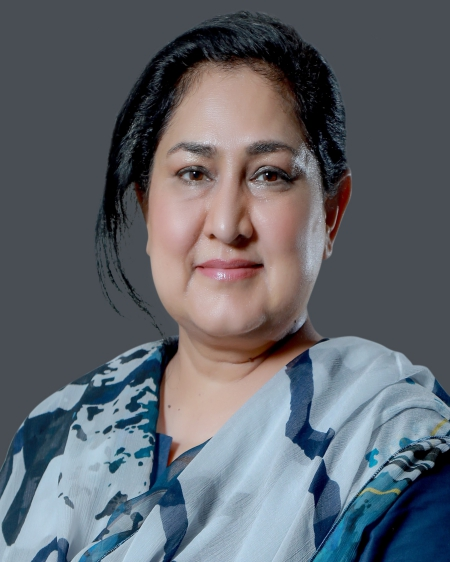
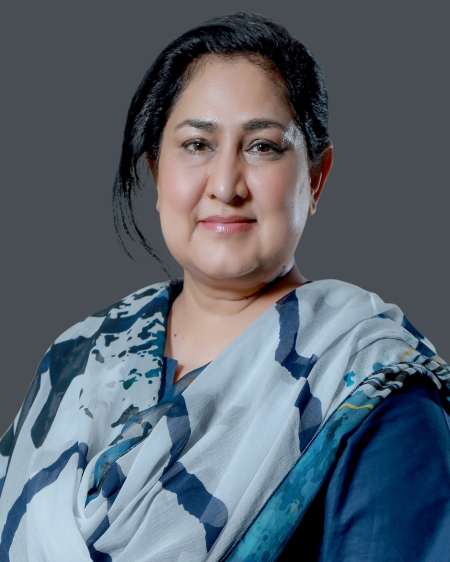
Add content of dr faryal & image replace
after content added page will be renamed

diff --git a/faculty-profile/Dr-Jawaid-Abdul-Ghani.php b/faculty-profile/Dr-Jawaid-Abdul-Ghani.php
@@ -98,10 +98,10 @@ include('../partials/head.php');
 
                     <div class="faculty_grid_head">
 
-                        <h1>Dr. Jawaid Ghani</h1>
-                        <h4>Professor<br>Strategy & Marketing Research</h4>
+                        <h1>Dr. Faryal Razzaq</h1>
+                        <h4>Assistant Professor<br>Management Sciences</h4>
 
-                        <a href="mail:to">jawaid.ghani@ksbl.edu.pk</a>
+                        <a href="mail:to">Faryal.razzaq@ksbl.edu.pk</a>
 
                     </div>
 
@@ -132,234 +132,144 @@ include('../partials/head.php');
 
                         <div id="vita" class=" tab-pane active">
 
-                            <p><span style="color: #ff9f19;">Dr Jawaid Ghani </span>
-                                holds degrees in Computer Science and Management from MIT and Wharton School (U. Penn). He was a Professor at LUMS (1992-2012) where he taught in the areas of Strategy and Marketing, served as Dean of the Suleman Dawood School of Business, and held the Export Development Fund Chair in Export Marketing. Prior to joining LUMS, Dr Ghani held faculty positions at the Sloan School of Management, MIT, King Fahd University of Petroleum and Minerals, and Western Michigan University.
+                            <p><span style="color: #ff9f19;">Dr. Faryal Razzaq </span>
+                             is an seminal academician, master trainer, research consultant, blogger for national newspapers, influencer, panelist for National TV, philanthropist, Emotional Intelligence and ethics’ education evangelist, instructional designer & member advisory boards for few institutions including Bahria University Business School curriculum advisory committee for BBA/MBA & established ZAB-Curriculum advisory & Regulation of Emotion Centre (SZABIST). She is a mentor for National Incubation Centre, CaterpillerHer (Miller Center for social entrepreneurship at Santa Clara university, CA., USA), CGI (NUML University), BIC (Bahria University), SEED and Khudi-A women empowerment project and board member for Accountability Lab. She is also in pool for ‘Cartier Women Initiative’ as Subject Matter Expert. She was the only female given fellowship by Founder Institute (Silicon Valley, CA., USA) Islamabad chapter cohort 4. She is among 20 researchers from Islamabad and KPK chapter, selected as member of Community Resilience Research Network by SDPI funded by Creative Learning, USA and awarded 02 research grants. She had been chosen as a symbol of women empowerment in national newspaper Daily Times as well as international Inspire Zone Magazine.
                             </p>
-                            <p>He was a founding Director of Gallup Research Institute (Pakistan). He served as the founding Chairman of the Punjab Information Technology Board (PITB) and as Provincial Secretary Information Technology Department in Punjab.</p>
-                            <p>He has served as a Board member of several organizations including Haleeb Foods Ltd., International Islamic University, Foundation University, Punjab Technical Education and Vocational Training Authority (TEVTA), and Technical Up-Gradation and Skill Development Company (TUSDEC), and as a member of numerous federal and provincial task forces.</p>
-                            <p>He has published extensively in several areas including the psychology of human-computer interaction, economic tariff policy, and retail. His current research interests lie in the area of marketing research and corporate strategy.</p>
+                            <p>She is a scout/influencer for Amazon Web Services (AWS), approved silver tier trainer for Google signature #IamRemarkable workshops. She is featured on The World Bank official media page for her commitment for #GirlLearnWomenEarn and #StratupFridays initiates of The World Bank action plans. She had been independent consultant for British Council, US Embassy Islamabad, CWS (Act alliance Asia Chapter). She has trained PAF officers through Professional Development Centre (Air University), and lead trainer for LDC Bahria University, HRDN, DOVE Foundation, Lincolns Corner, SAARC Women Entrepreneurs Portal Islamabad Chapter. </p>
+                            <p>She developed the first indigenous model, scale, and theory for emotional intelligence at Pakistani workplace for her PhD thesis and developed a model for effective change management for MS thesis . She has many research publications in HEC recognized journals/ national/international conferences. Her research areas are emotional intelligence, learning style, status of women in HEIs, effective change management currently she is working on developing empathy and emotional resilience, anti- bullying and sexual exploitation awareness in primary school children, anti-terrorism, countering violent extremism, ethics, and management style of Abdul Sattar Edhi. Dr Faryal has 05 copy rights from IPO, Pakistan on her models and scales. She has supervised 22 MS level students and 24 BBA and MBA students and served Quaid-i-Azam University and SZABIST prior to joining KSBL.</p>
+                            <p>She is a member for 4 divisions of Academy of Management (AOM), OB, HRM, Entrepreneurship and research methods. She has been awarded HEC grants twice to present her research abroad in USA in Pre- AOM Emotions at workplace conference (EMONET 11) and Malaysia where she conducted pre-conference trainings as well. Her training expertise include, scale development, mental health, life skills, emotional intelligence, emotional agility, self- awareness, anger management, stress management, changing mindset, ethics, proposal writing, research, women empowerment, Logic and critical thinking, effective change management, agile HR, business model canvas, etc. She has trained faculty and students in leading Pakistani universities including Punjab University, Peshawar University, Greenwich University Karachi, IQRA University, Bahria University, SZABIST, Fatima Jinnah Women University and foreign universities like Asia Metropolitan University, Malaysia etc. She is on board of reviewers for 8 research journals & Congress on Academy of Management.</p>
+                            <p>She had been session chair and keynote speaker in many international/national conferences and delivered 100’s of talks across many social media platforms. She is an executive member for British- Pakistan business forum and Islamabad women chamber. She is a role model for Pakistan Alliance for Girls Education, general body member for Pakistan Alliance for Early childhood care, advisor READ Pakistan, trainer/member Women on Board, Connected Women, Pakistan Youth Association, LIFT Pakistan, Professional Success Summit, Jumpstart and Rupani foundation etc.<p>
+                            <p>She is the founder of The FEEEL ® (Framework of Emotions, Ethics, Empowerment and Life skills) Pakistan’s first digital company working on emotional preventive care through self-help coping strategies. She is the patron-in-chief of Pakistan’s first research based digital magazine on emotional health, ‘The FEEEL Magazine’ and creator and owner of first video literacy syllabus to develop emotional resilience for primary kids, ‘The FEEEL Toons’. As a startup founder she won Women SDG Challenge Cup at Hackathon 2019 and was semi-finalist for TiE startup cup 2021. She was among 40 startup founders selected by Facebook Startup Circles training from across Pakistan in 2020.</p>
                         </div>
 
                         <div id="credentials" class=" tab-pane fade"><br>
                             <h4 class="text-primary">Education</h4>
 
                             <p>
-                                Ph.D. - Department of Decision Sciences, <b>The Wharton School, University of Pennsylvania.</b><br>
-                                Major: Management Information Systems; Minor: Managerial Accounting<br>
-                                Dissertation Title: The Effects of Information Representation and Modification on Decision Performance. [Doctoral Research on Database Systems as Mellon Fellow at Carnegie-Mellon University (1975-76)]<br>
-                                <b>1981</b>
-
+                            <b>PhD, Management Sciences (HR), Bahria University Islamabad, Pakistan</b><br>
+                            Developing and validating a Scale for Emotional Intelligence at Pakistani Workplace: A    Case of Hyper Markets of Pakistan.
                             </p>
                             <p>
-                                <b>B.S - Electrical Engineering and Computer Science, Massachusetts Institute of Technology.</b> Thesis Title: Data Base and Simulation Model for Energy Demand Analyses.<br>
-                                <b>1975</b>
+                            <b>MS, Management Sciences (HR), COMSATS University.</b><br>
+                            Effective Change Management: A Case of Canteen Stores Department
                             </p>
-                            <p><b>B.S. - Management Science, Massachusetts Institute of Technology.</b><br>
-                                <b>1975</b>
-                                </p>
+                          
 
-                            <h4 class="text-primary">Awards & Achievements:</h4>
+                            <h4 class="text-primary">Awards</h4>
                             <p>
-                                <ul>
-                                    <li>Awarded Export Development Fund (EDF) Chair in Export Marketing at the Lahore University of Management Sciences, 1994.</li>
-                                    <li>Voted as 1990-91 and 1991-92 Teacher of the Year in the Department of Business Information Systems, Western Michigan University.</li>
-                                    <li>Listed in Who's Who in American Education, 1992-93.</li>
-                                    <li>College of Business Dean's Research Grant, Western Michigan University (1988, 1990, 1991).</li>
-                                    <li>Granted Tenure at Western Michigan University (1991).</li>
-                                    <li>Teaching Fellowship, University of Pennsylvania (1976-80).</li>
-                                    <li>Mellon Fellowship, Carnegie-Mellon University (1975-76).</li>
-                                    <li>Undergraduate Scholarship, Massachusetts Institute of Technology (1972-75).</li>
-                                    <li>SIGMA XI, (Honorary) Scientific Research Society of North America, 1975.</li>
-                                    <li>Cree Medal for Science (awarded to the best overall science student) Karachi Grammar School, 1970</li>
-
-                                </ul>
+                                <ol>
+                                    <li>Won 2nd runner up SDG Women Challenge Cup Pakistan by NIC, JAZZ, Huawei, Code for Pakistan, and Open Pakistan. </li>
+                                    <li>Selected as one of 20 members across Pakistan for Community Resilience Research Network member for SDPI, International Peace and Security Institute, USA and Creative Learning, USA and awarded two grants worth 1.25 Million PKR</li>
+                                    <li>Semi Finalist (amongst 200 startups across Pakistan) for TiE startup cup funded by US Embassy Islamabad.</li>
+                                    <li>Awarded 5 Copy rights, with IPO, Pakistan. </li>
+                                    <li>Awarded Female Fellowship by Founder Institute, California, and USA for Cohort 4 </li>
+                                    <li>Won Merit Scholarship for MS from CIIT, ChakShehzad Campus Islamabad. </li>
+                                    <li>Awarded travel grants twice by HEC Pakistan to present research in Malaysia (2017) and USA (2018). </li>
+                                </ol>   
                             </p>
 
                         </div>
 
                         <div id="interests" class=" tab-pane fade"><br>
 
-                            <p><b>Academic Experience</b></p>
-                            <p>Professor of Strategy and Marketing Research<br>
-                                2013- present
-                                </p>
+                            <p><b>Professional Experience</b></p>
+                            <p>
+                                <ul>
+                                    <li>Assistant Professor, Quaid-i-Azam University, 11 September 2020- 06 July 2021</li>
+                                    <li>Assistant Professor, Shaheed Zulfiqar Ali Bhutto Institute of Science & Technology (SZABIST- Islamabad) from 09 February 2015 – 10 September 2020 </li>
+                                    <li>Visiting Faculty, IQRA University Islamabad. Spring 2017: Research Methods and Skills ( BBA, Fashion &Textile), Compensation management( MS management Sciences). Summer 2017: Compensation Management (MS management Sciences). Fall 2017: Performance Management ( MBA); Human Resource Staffing ( MS Management Sciences)  </li>
+                                    <li>Visiting Faculty, SZABIST, Islamabad. Spring Semester 2014: Business Research Methods (MBA 3 _72 Credit Hours), Principles of Management (MBA 1_ 72 credit hours & 90 credit hours). Summer Semester 2014: Research Methodology (MS_ Development studies & Social Studies). Fall Semester 2014 : Advanced Research Methods ( MS_SS &DS), MBA(36 CRH) </li>
+                                    <li>Principal PAF PlayLand Montessori, Sargodha. (Grade 17). October 2001- September 2002 </li>
+                                </ul>
 
-                                <p>
-                                    Professor of Strategy and Marketing, Suleman Dawood School of Business (SDSB), LUMS. Dean of SDSB, LUMS (2005-07); Visiting Professor (2004-05); Professor (1993-2004); EDF Professor of Export Marketing (1995-98), Associate Dean External Programs (1994-99), Associate Professor (1992-93). On leave as Chairman PITB (1999-2000, 2011-2012).<br>
-                                    As Dean was responsible for SDSB which consists of over 2 dozen full time faculty and a budget in excess of $2 million.
-                                </p>
-                                <p>
-                                    Associate Professor, Department of Business Information Systems, Western Michigan University. Assistant - Professor (1988-90)<br>
-                                    1988-1992
-                                </p>
-                                <p>
-                                    Assistant Professor, College of Industrial Management, King Fahd University of Petroleum and Minerals (KFUPM), Dhahran, Saudi Arabia
-                                    <br>1984-1988
+                            </p>
+                            <p><b>Consulting Experience</b></p>
+                            <p>
+                                <ol>
+                                    <li>Consultant for KSBL undergrad program launch and digitization initiative from September 2020 - June 2021.</li>
+                                    <li>Consultant trainer for HRDN for their youth enrichment program at on 27August, 2019 at Lincolns Corner.</li>
+                                    <li>Conducted 4 days training for faculty and MS/PHD scholars in Peshawar University as an independent consultant for Community World Service a consortium of 70 countries under ACT alliance form 20-23 Dec 2017.</li>
+                                    <li>Conducted three days training for Research and SPSS as the main trainer in Punjab University from 23rd March 2017-25th March 2017 for CWS as private Independent Consultant for Community World Services a consortium for 70 countries (ACT Alliance) to conduct research workshops.  </li> 
+                                    <li>Conducted the baseline study British Council for HEC sponsored research study on Women in Higher Education as Private Consultant in January 2016.  </li>
+                                    <li>Won 2 grants from SDPI and creative learning USA 2020 and 2021, for PKR 1.25 million for video literacy training for emotional resilience of primary school kids and anti-terrorism narrative in HEIs.</li>
+                                </ol>
+                            </p>
+                            <p><b>Training</b></p>
+                            <p>
+                                <ol>
+                                    <li>Facebook Live 19 sessions conducted for emotional health and Corona for Greenwich University, Change Mechanics, Wecon, Fempreneur, SDG- Academy, SZABIST- Islamabad, The FEEEL, Seerab Maps, volunteers 2 Serve humanity etc from April,2020- May, 2020 </li>
+                                    <li>Mentored startups in Bahria Innovation Centre for UNDP-FERP om 12 March, 2020 </li>
+                                    <li>Conducted a training for Emotional Resilience for Startups at NUML University, Centre for Global Innovation on 27 Feb, 2020. </li>
+                                    <li>Conducted a training for COMSATS University, Islamabad, Arts and Design department for Emotional Agility on 26th Feb, 2020. </li>
+                                    <li>Conducted an advanced level workshop on, “Stress Management and building resilience” for PAF Officers from13-15th January,2020 for CPD- Air University </li>
+                                    <li>Conducted Training for PAF CWO’s and PDC, Air University for Time and </li>
+                                    <li>Stress Management from 9-11th Dec 2019. </li>
+                                    <li>Conducted Training for SAARC women portal for Islamabad women chamber Mentored young Women Entrepreneurs for Khudi-Women Empowerment Boot </li>
+                                    <li>Camp, by US State Department, US Mission Islamabad, PEP Foundation and 7 Universities on 9th Dec 2019 </li>
+                                    <li>Conducted trainings for PAF Officers 25-27th Nov 2019 for critical thinking. </li>
+                                    <li>Conducted motivation session Pakistan Alliance for Girls Education, for AIM high initiative on 18th  Sept.2019</li>
+                                    <li>Conducted training on 5th  Sept for LIFT Pakistan and JUMP Start for Emotional Agility in the era of disruption.  </li>
+                                    <li>Conducted training for Unites States of America, Embassy Islamabad, on Mental & Emotional Agility for their Youth Enrichment Program on 27 August, 2019 </li>
+                                    <li>Conduct training for Google signature #IamRemarkable workshop for Lincolns Corners on 4th September, 2019 (American Centre, Public Affairs Sections, and U.S. Embassy Islamabad). </li>
+                                    <li>Expert Panelist in “HR and People Management: The Agile way in the Digital Era”, organized by #Tech4Good, Maven Logix, Teamup, Colaraz and National Incubation Center on 2nd  August 2019.</li>
+                                    <li>Conducted a training on Mindset for Connected Women Islamabad Chapter on 21st  June 2019, at Marriott’s Islamabad. </li>
+                                    <li>Conducted faculty development training in SZABIST- Islamabad on Role of Academia in fostering ethical Behaviors, on 16th  July 2019.</li>
+                                    <li>Lead trainer for startups in Accountability Lab on 19th  April, 2019</li>
+                                    <li>Conducted a full day work shop on Emotional Intelligence at Bilguis Post Graduate College for Psychology department for around 300 participants at PAF base Nur khan on 4th April, 2019.</li>
+                                    <li>Conducted a talk on Women’s Day Special as symbol of women empowerment, at Wecreate, and powered by ,’Be the change” on 10th  March 2018</li>
+                                    <li>Conducted a discussion of upside of failure at National Incubation Centre, powered by Dasstan Publisher, Accountability lab and Team up on 20 March 2018. </li>
+                                    <li>Conducted training on Emotional Intelligence, arranged by Learning Curves, Pakistan Youth Association & NISTE Islamabad on 9th  February 2019. </li>
+                                    <li>Conducted Training on Scale Development and Validation in Institute of Professional Psychology, Bahria University Karachi on 27th  April 2018. </li>
+                                    <li>Conducted pre conference Training in Greenwich University, Karachi on 27April 2018 on Scale Development. </li>
+                                    <li>Resource person for conducting quantitative techniques of data analysis in IBIT, Punjab University, 16 Feb 2018. </li>
+                                    <li>Conducted pre conference training in Asian Multi-disciplinary conference, in Asian metropolitan university, Cyberjaya, Malaysia on 29th Dec 2017. </li>
+                                    <li>Conducted Faculty and Student training as the main training for Leadership Development Centre (LDC), Bahria University on 24th August 2017 for Scale development. </li>
+                                    <li>Conducted two weeks Proposal Writing Workshops for Faculty and Thesis students in IQRA University, Islamabad Campus, in Dec. 2016. </li>
+                                    <li>Conducted Trainings in SZABIST-Islamabad for APA style of Formatting and research writing on 21st  May & 27th  May 2015. </li>
 
-                                </p>
-
-                                <p>
-                                    Assistant Professor of Management Science, Sloan School of Management, <br>Massachusetts Institute of Technology.
-                                    <br>1980-1981
-
-                                </p>
-
-                                <p>
-                                    Assistant Instructor of Decision Sciences, Wharton School, University of Pennsylvania
-                                    <br>1976-1980
-
-                                </p>
-                                
-                                <div class="container">
-                                    <p class="text-primary">Industry Experience:</p>
-                                    <div class="row mt-3">
-                                        <div class="col-lg-3"><p>1999-2000</p></div>
-                                        <div class="col-lg-8">
-                                            <p>
-                                                <b>Founding Chairman, Punjab Information Technology Board (PITB), </b>
-                                            </p>
-                                        </div>
-                                    </div>
-
-                                    <div class="row mt-3">
-                                        <div class="col-lg-3"><p>2011-2012</p></div>
-                                        <div class="col-lg-8">
-                                            <p>
-                                                <b>Chairman PITB and Secretary Information Technology Department </b>
-                                            </p>
-                                        </div>
-                                    </div>
-
-                                    <div class="row mt-3">
-                                        <div class="col-lg-3"><p>1997-98</p></div>
-                                        <div class="col-lg-8">
-                                            <p>
-                                                <b>Marketing Advisor, Wazir Ali </b>Group of Companies.
-                                            </p>
-                                        </div>
-                                    </div>
-
-                                    <div class="row mt-3">
-                                        <div class="col-lg-3"><p>1995-96</p></div>
-                                        <div class="col-lg-8">
-                                            <p>
-                                                <b>Consultant, Ministry of Science and Technology and the World Bank. </b>
-                                            </p>
-                                        </div>
-                                    </div>
-
-                                    <div class="row mt-3">
-                                        <div class="col-lg-3"><p>1981-83</p></div>
-                                        <div class="col-lg-8">
-                                            <p>
-                                                <b>Director and Founding Partner, Gallup Research Institute </b>(Pakistan).
-                                            </p>
-                                        </div>
-                                    </div>
-
-                                    <div class="row mt-3">
-                                        <div class="col-lg-3"><p>1973-76(part-time)</p></div>
-                                        <div class="col-lg-8">
-                                            <p>
-                                                <b>Mellon National Bank,</b> Pittsburgh, Pa. Consulted on the design and implementation of a prototype data inquiry system for top management. Spring 1976.
-                                                <br><b>MIT Energy Laboratory.</b> Developed simulation model for energy demand analyses. Summer 1975 <b>Decision Technology Inc., Cambridge,</b> Mass. Implemented software interface for on-line usage of Graphic Management Reporting System. Spring-Fall 1974.
-                                                <br> <b>Sloan School, MIT</b>. Analysis of data manipulation languages of various CODASYL type data base management systems. Fall 1973.
-                                                <br> <b>Multimedia Lab, MIT.</b> Developed hardware interface for the XDP color graphics minicomputer. Summer 1973.
-                                               <br> <b>Barnes Engineering Co., Stamford</b>, Conn. Tested Field Effect Transistors for response to low-frequency
-                                                <br>signals. Spring 1973.
-
-                                            </p>
-                                        </div>
-                                    </div>
-
-
-
-                                    
-                                </div>
-
+                                </ol>
+                            </p>
 
                         </div>
 
                         <div id="publications" class=" tab-pane fade"><br>
 
-                           <p class="text-primary">PUBLICATIONS:</p>
-                           <ol>
-                               <li class="mt-3">Ghani, J.A., 2014. “The Emerging Middle Class in Pakistan: How it Consumes, Earns, and Saves”, KSBL Review, 1(3).</li>
-                               <li class="mt-3">Ghani, J.A., 2014. “Retail Trends in Urban Pakistan”, KSBL Review, 1(2):12-17.</li>
-                               <li class="mt-3">Ghani, J.A.. 2010. “Maria B. Designs (Pvt.) Ltd”, Asian Journal of Management Cases, 7(1), 89-102.</li>
-                               <li class="mt-3">Ghani, J. A., Rana, A.I., and Bhutta, K. 2008. “The Economics of Outsourcing in a De-integrating Industry”. Journal of <br>International Business Research, 7(1): 47-60 </li>
-                               <li class="mt-3">Ghani, J. A., and Fayyaz, A. 2007. “Lahore Woven Garments Consortium (LGC)”, Asian Journal of Management Cases,<br>
-                                4(1): 65-86.
-                                </li>
-                               <li class="mt-3">Ghani, J. A. 2005. “Consolidation in Pakistan’s Retail Sector”, Asian Journal of Management Cases, 2(2): 137-161.</li>
-                               <li class="mt-3">Khan, J. H , and Ghani, J. A. 2004. “Clusters and Entrepreneurship: Implications for Innovation in a Developing Economy”,<br>
-                                Journal of Development Entrepreneurship, 9(3): 221-238.
-                                </li>
-                               <li class="mt-3">Ghani, J. A. 2004. “Bata Strategic Choices”, Asian Journal of Management Cases, 1(1): 81-108.</li>
-                               <li class="mt-3">Rana, A. I., and Ghani, J. A. 2004. “Dynamics of Outsourcing in Industrial Clusters: A Study of the Gujrat Fan Industry”,
-                               <br> Asian Journal of Management Cases, 1(1): 7-24.
-                                </li>
-                               <li class="mt-3">Ghani, J. A. and Khan, J. H. 2004. “Network Relationship and Asset Specificity in Pakistan’s Automotive Industry”, Journal
-                                <br>of The Asia Pacific Economy, 9(1): 85-100.
-                                </li>
-                               <li class="mt-3">Lahiri, S., Nasim, A., and Ghani, J. 2000. “Optimal second-best tariffs on an intermediate input with particular reference to
-                                <br>Pakistan”, Journal of Development Economics. 61(2): 393-416.
-                                </li>
-                               <li class="mt-3">Ghani, J. A. 1998. “Sialkot A City at Work”, in Pakistan: 50th Anniversary of Independence, R. Minhas (Ed.), Berkeley
-                                <br>Communications, London, UK, pp. 128-133.
-                                </li>
-                               <li class="mt-3">Ghani, J.A. and Amir, I. 1994. “Pakistan Leather Tanning Industry 1993 - A Review”, Pakistan Leather Trades Journal,
-                               <br>21(4): 56-72.
-                                </li>
-                               <li class="mt-3">Ghani, J. A. and Deshpande, S. 1994. “Task Characteristics and the Experience of Optimal Flow in Human-Computer
-                                <br>Interaction”. The Journal of Psychology, 128(4): 381-391.
-                                </li>
-                               <li class="mt-3">Ghani, J. A. 1993. “Flow in Human-Computer Interactions: Test of a Model.” in Human Factors in Management Information Systems: Emerging Theoretical Basis, Jane Carey and Ben Shneiderman (Eds.), <br>Ablex Publishing, Norwood,
-                                <br>NJ.
-                                </li>
-                               <li class="mt-3">Ghani, J. A. and D'Mello, J. 1993. "Computers in Finance Education: Balancing the challenges." Financial Practice and
-                                <br>Education, 3(1): 65-71.
-                                </li>
-                               <li class="mt-3">Ghani, J. A.1992. “Task Uncertainty and the Use of Computer Technology.” Information and Management, 22: 69-76.</li>
-                               <li class="mt-3">Ghani, J. A. and Chacko, C. 1991. “End User Dependence on Computer Technology.” The Journal of Information
-                                <br>Technology Management, 2(3): 9-15.
-                                </li>
-                               <li class="mt-3">Ghani, J., Supnick, R. and Rooney, P. 1991. "The experience of flow in computer-mediated and face-to-face group
-                                <br>communication". In Proceedings of the Twelfth International Conference on Information Systems, DeGross, Benbasat, DeSanctis and Beath (Eds.), ACM Publications, Baltimore, MD, pp. 229-237.
-                                </li>
-                               <li class="mt-3">Ghani, J. A. 1990. “Task Variability and the Managerial Use of Information Channels”. The Journal of Information
-                                <br>Technology Management, 1(2): 1-8.
-                                </li>
-                               <li class="mt-3">Ghani, J. A. and Lim, T. 1989. “Training DP Managers for the Small Business Sector.” Interface: The Computer Education
-                                <br>Quarterly, 11(4): 26-30.
-                                </li>
-                               <li class="mt-3">Ghani, J. A. and Al-Meer, A.R. 1989. “Effect of End User Computing on Job Satisfaction: An Exploratory Study.”
-                                <br>Information and Management, 17(4): 191-195.
-                                </li>
-                               <li class="mt-3">Ghani, J. A. 1988. “Diffusion of microcomputers in an academic community.” Computers and Education: An International
-                                <br>Journal, 12(4): 545-551.
-                                </li>
-                               <li class="mt-3">Ghani, J. A. and Al-Buraey, M.A. 1988. “Administrators and Technologists: A Study of the Role and Career Aspirations of
-                                <br>Saudi Engineers.” Engineering Management International, 15(1): 63-69.
-                                </li>
-                               <li class="mt-3">Ghani, J. A. and Al-Sakran, S. 1988. “The Changing Data Processing Environment in Saudi Arabia.” Information and
-                                <br>Management, 14(2): 61-66.
-                                </li>
-                               <li class="mt-3">Al-Buraey, M.A. and Ghani, J. A. 1986. “Management Education for Engineers: The case of Saudi Arabia.” European
-                                <br>Journal of Engineering Education, 11(4): 437-450.
-                                </li>
-                               <li class="mt-3">Ghani, J. A. and Lusk, E. 1982. “The Impact of a Change in Information Representation and a Change in the Amount of
-                                <br>Information on Decision Performance.” Human Systems Management, 3(3): 270-278.
-                                </li>
-                               <li class="mt-3">Ghani, J. A. and Lusk, E. 1982. “Human Information Processing research: Its MIS-design consequences.” Human Systems
-                                <br>Management, 3(1): 32-40.
-                                </li>
-                               <li class="mt-3">Ghani, J. A. 1981. “The Effects of Information Representation and Modification on Decision Performance.” Unpublished
-                                <br>Dissertation, University of Pennsylvania.
-                                </li>
-                        
-                           </ol>
-                           <p>Impact Factor 12.89; i10-index 13	&nbsp;&nbsp;&nbsp;&nbsp; Total citations (Google Scholar): 2400+</p>
+                           <p><b>Academic Journals </b> </p>
+                            <p>
+                                <ol>
+                                    <li>Developing a Scale on Employee Involvement and Motivation in Effective Change Management: A Case of Canteen Stores Department, in IBT Journal of Business Studies, Vol 15(1) page 63-74, 2019. </li>
+                                    <li>Effects of Emotional Intelligence upon Gender & Academic Accomplishments, Journal of Contemporary Management Sciences, Vol 4 issue 1, 2019. Page 93-110. </li>
+                                    <li>Exploring effects of learning Styles on the learning outcomes, Published in ‘New Horizon’, 2019, Vol 13, No 1, Page 13-30 </li>
+                                    <li>Patterns of learning styles through E-learning in Pakistan, Published in International Research Journal of Arts and Humanities, 2018, Volume 46, no 46. ISSN : 1016-9342 </li>
+                                    <li>Measuring Emotional Appreciation at Personal, Interpersonal and Organizational Level in Pakistani Workplace Setting. Published in Bahria University Journal of Management & Technology 2017, Vol.1, No. 2 pp. 14-36</li>
+                                    <li>Paper titled, “A Theoretical Evaluative Study of Four Influential Models of Emotional Intelligence”, Bahria Journal of professional Psychology in 2016, 15(2),pp. 39-62. </li>
+                                    <li>Paper Published in Journal of Business and Economics, ISSN: 2075-6909,Vol 7, No. 1, pp: 28-70titled, Developing and Indigenous Scale of Emotional Intelligence at Workplace  </li> 
+                                </ol>
+                            </p>
+                            <p><b>International Conferences Abroad</b></p>
+                            <p>
+                                <ol>
+                                    <li>Paper titled, “Revised Emotional Intelligence Framework (EQF): An Integrative approach towards universal definition of EQ at Workplace”, presented in conference on emotions and organizational life ‘Emonet xi’ 2018 held in Chicago, USA from 8-9 August 2018. </li>
+                                    <li>Theory and Practice in Scale Development Practices in Management Sciences, paper presented in Asia Multidisciplinary Conference Dec 30-31 Asia metropolitan university, Cyberjaya, Malaysia.</li>
+                                    <li>Paper titled, ''Abdul Sattar Edhi: A role model for Philanthropy" Published in Global Waqaf Conference 2016, in Swansea, Wales, UK. 19th -21September 2016.   </li>
+
+                                </ol>
+                            </p>
+                            <p><b>International Conferences (Domestic)</b></p>
+                            <p>
+                                <ol>
+                                    <li>Elements of Employee Motivation and Involvement in Effective Change Management, Paper presented in 7th  International Conference on Social Sciences: Challenges of globalization on Afro-Asian countries, Greenwich University, Karachi from 28-29 April 2018</li>
+                                    <li>A Research article, titled, “Emotional Appreciation at Personal, Interpersonal and Organizational Level’’, presented in," Multi-Disciplinary PhD Conference, 2017" in Bahria University, Islamabad from 18-19th April, 2017. </li>
+                                    <li>Paper published in ICIBM 2012, held on 4-6 July 2012, in Lahore titled “Employee’s Involvement in Effective Change Management”. </li>
+                                    <li>Paper titled “Elements of Organization Measures in Effective Change Management” was presented at NRC 16 held at SZABIST, Karachi on 11 Dec. 2011. </li>
+                                    <li>Paper titled “A Framework for Effective Change Management in Pakistani Context” published for SIACOM 2010 Conference held on 13-15 July, 2010 in Bhurbun. </li>
+                                    <li>Presented Paper in ELDEC 2009, Islamabad- Learning & Distance Presented Paper in ELDEC 2009, Islamabad- Learning & Distance Education Conference) held in Islamabad Pakistan, on March 30-31, 2009 on the topic of, “Patterns of learning Styles in E-learning Environment”  . </li>
+                                    <li>Abstract accepted for Going Global June, 2015 in UK for poster session titled, “Developing Research, Teaching and Learning Skills in Tertiary Education for Technology & Innovation Management across Cultures”. </li>
+                                    <li>Working paper titled “Emotions at Workplace Setting: A Case of Pakistan” accepted in APSEW-The Asia-Pacific Symposium on Emotions in Work life, with an offer of 500$ scholarship in New Zealand. </li>
+
+                                </ol>
+                            </p>
+
 
                         </div>
 
